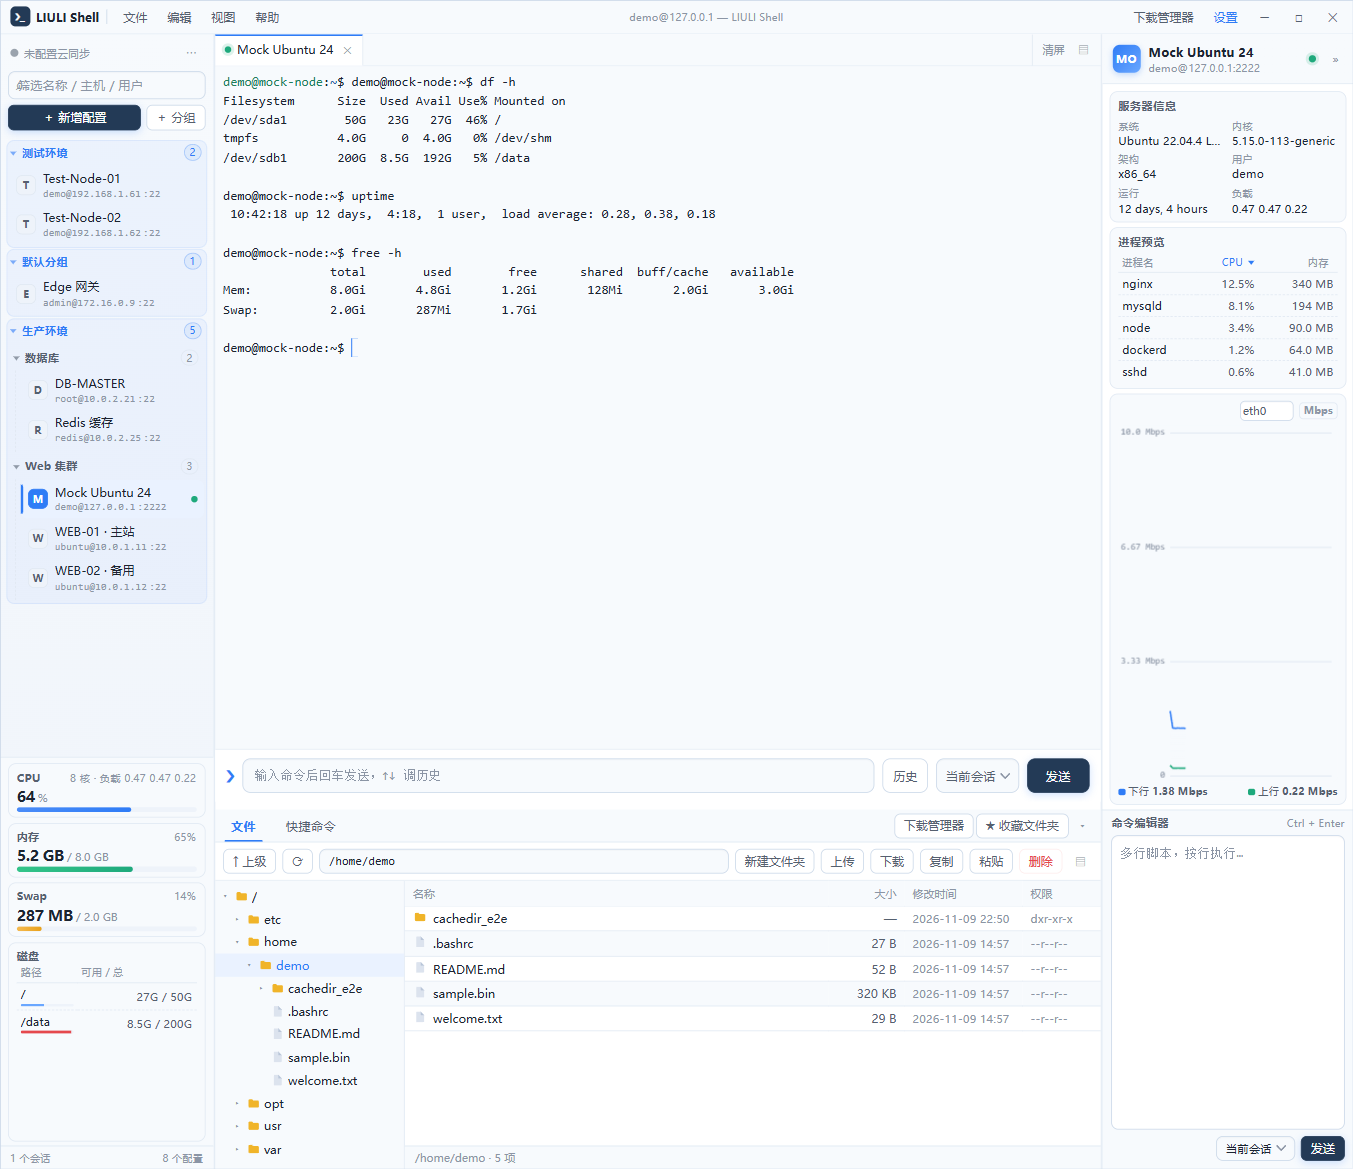
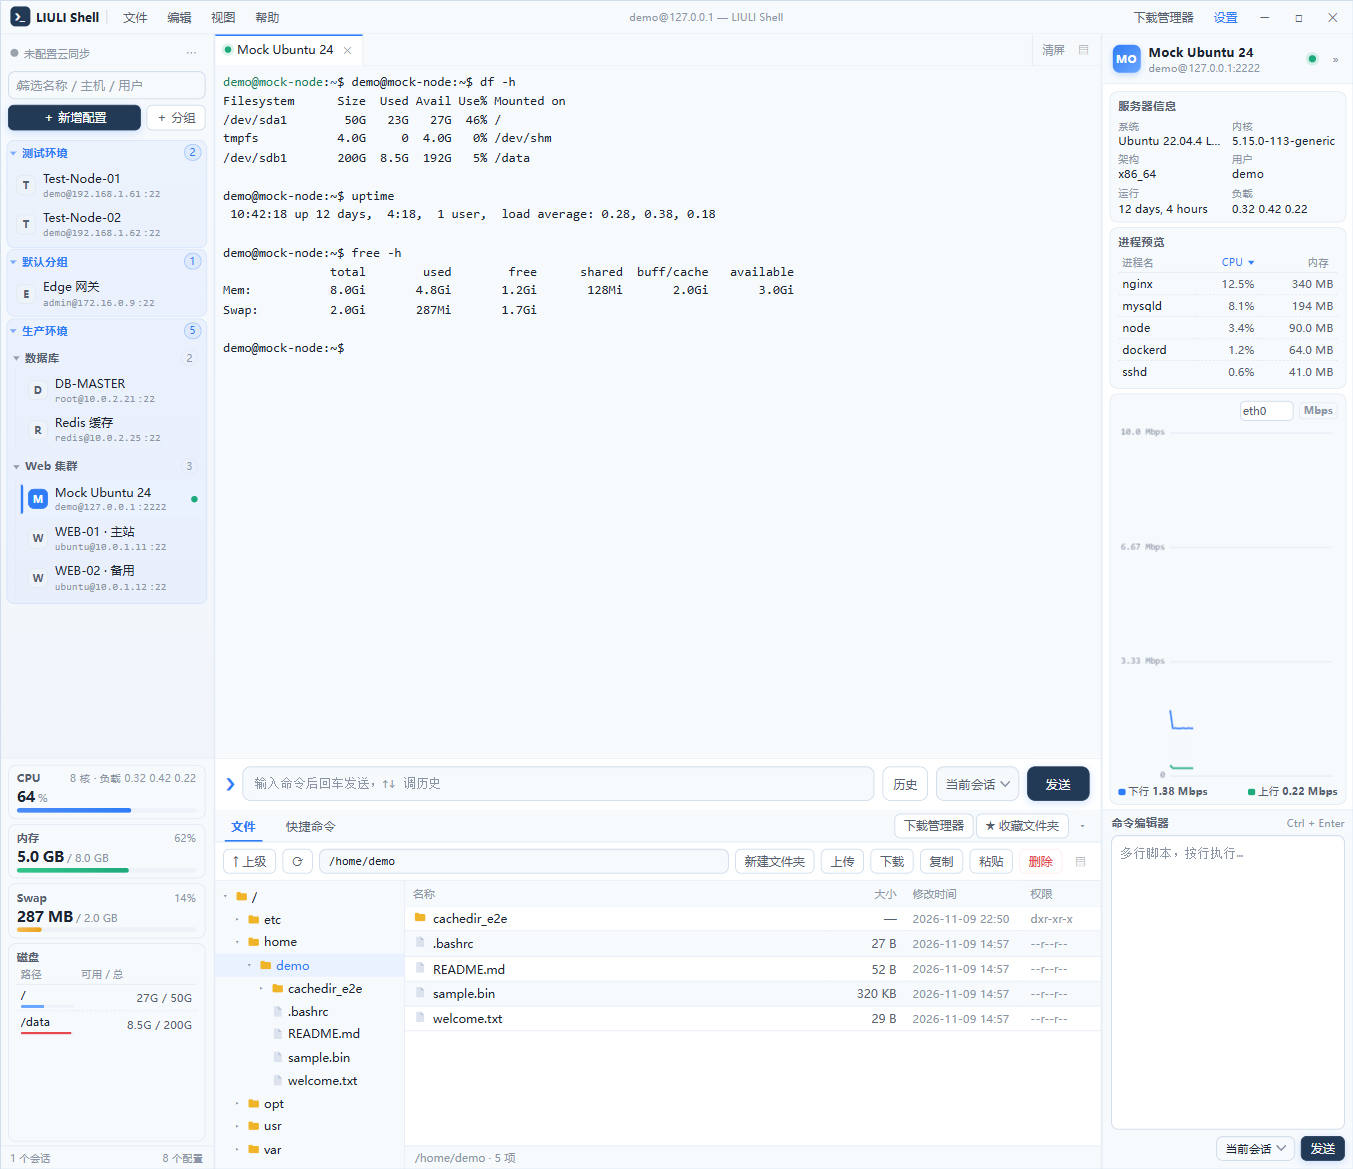
feat: 新增三套主题（藕粉·莓紫/青瓷·松绿/深海·靛蓝）；安装目录自动追加 LIULISHELL 子文件夹；左栏监控区与命令栏对齐、输入框上下边距一致；版本号升至 1.13.9；重截 8 套主题配图并同步官网/README/项目设计

diff --git a/src/renderer/css/style.css b/src/renderer/css/style.css
@@ -28,6 +28,8 @@
   --bottom-h: 360px;
   --radius: 8px;
   --left-foot-h: 24px;
+  /* 命令输入栏固定高度：左栏监控区用它算顶部对齐，输入框在其中垂直居中 */
+  --cmd-bar-h: 52px;
 }
 
 * { box-sizing: border-box; }
@@ -312,10 +314,12 @@ body.theme-dark .group.lv1.open > .group-head:hover { background: rgba(var(--acc
 .ci-state { width: 6px; height: 6px; border-radius: 50%; flex: 0 0 auto; background: transparent; }
 .conn-item.online .ci-state { background: var(--ok); box-shadow: 0 0 0 3px var(--accent-soft); }
 
-/* 左下监控区：顶部与命令输入栏顶部对齐；分区过多时用下拉框，不挤压服务器列表 */
+/* 左下监控区：顶边与命令输入栏顶边精确对齐。
+ * 两者都以视口底部为基准：监控区下方只有 left-foot，命令栏下方是 bottom-pane + 分隔条。
+ * 分隔条不占布局高度，所以监控区高度 = bottom-h + cmd-bar-h - left-foot-h。 */
 .left-monitors {
   flex: 0 0 auto;
-  height: calc(var(--bottom-h) + 53px - var(--left-foot-h));
+  height: calc(var(--bottom-h) + var(--cmd-bar-h) - var(--left-foot-h));
   min-height: 220px; max-height: none;
   overflow: hidden;
   padding: 6px 8px 4px; border-top: 1px solid var(--line);
@@ -348,8 +352,12 @@ body.theme-dark .group.lv1.open > .group-head:hover { background: rgba(var(--acc
 .splitter.v { width: 1px; cursor: col-resize; }
 .splitter.v::after { content: ""; position: absolute; top: 0; bottom: 0; left: -4px; right: -4px; }
 .splitter.v:hover, .splitter.v.dragging { background: var(--accent); }
-.splitter.h { height: 8px; cursor: row-resize; background: transparent; }
-.splitter.h::after { content: ""; position: absolute; left: 0; right: 0; top: -4px; bottom: -4px; }
+/* 水平分隔条：只保留透明拖拽热区，不占布局高度。
+ * 与命令编辑器把手（.ce-resize）一致：靠 ::after 向上下各扩 4px 保证命中面积，
+ * 若给它真实高度，会挤开下方命令栏 / 左侧监控区的水平对齐与上下边距。 */
+.splitter.h { height: 0; cursor: row-resize; background: transparent; z-index: 32; }
+/* 热区偏向上方：命令栏底部有 9px 空白，向下只探入标签栏 2px，避免挡住按钮 */
+.splitter.h::after { content: ""; position: absolute; left: 0; right: 0; top: -6px; bottom: -2px; }
 .splitter.h:hover, .splitter.h.dragging { background: transparent; }
 body.resizing { user-select: none; cursor: grabbing; }
 
@@ -418,7 +426,13 @@ body.resizing { user-select: none; cursor: grabbing; }
 .empty-title { font-size: 13px; color: var(--term-fg); }
 .empty-sub { font-size: 11.5px; color: var(--term-muted); }
 
-.cmd-bar { position: relative; z-index: 31; flex: 0 0 auto; display: flex; align-items: center; gap: 8px; padding: 9px 11px; background: var(--panel); border-top: 1px solid var(--line); }
+/* 命令输入栏：固定高度 + 垂直居中，输入框上下留白严格相等。
+ * 顶部分隔线用 inset 阴影绘制，不占布局高度，避免 border 让上下差 1px。 */
+.cmd-bar {
+  position: relative; z-index: 31; flex: 0 0 auto; height: var(--cmd-bar-h);
+  display: flex; align-items: center; gap: 8px; padding: 0 11px;
+  background: var(--panel); box-shadow: inset 0 1px 0 var(--line);
+}
 .cmd-caret { color: var(--accent); font-family: var(--font-mono); font-weight: 700; font-size: 16px; }
 .cmd-bar #cmd-input {
   flex: 1 1 auto; height: 34px; font-family: var(--font-mono);

diff --git a/src/renderer/js/settings.js b/src/renderer/js/settings.js
@@ -62,6 +62,39 @@ window.Settings = (function () {
         danger: '#f07171', 'danger-soft': '#3a2427', ok: '#4fc79d', warn: '#e3b45a', 'warn-soft': '#3a3020', 'term-bg': '#0d1116'
       },
       term: { bg: '#0d1116', fg: '#e2e8f0', cursor: '#5fc2b0', selection: '#2b3a3a', empty1: '#1d232b', muted: '#758394', accent: '#5fc2b0', dark: true }
+    },
+    {
+      id: 'rose', name: '藕粉 · 莓紫', note: '柔和暖紫',
+      vars: {
+        bg: '#fbf5f8', panel: '#ffffff', 'panel-2': '#fdf7fa', 'panel-3': '#f5eaf1',
+        line: '#eee0e9', 'line-strong': '#ddc6d6', text: '#2f2230', 'text-2': '#6d5b6c',
+        muted: '#9a8898', primary: '#4a2d47', 'primary-hover': '#2e182c',
+        accent: '#a04a86', 'accent-2': '#c477ad', 'accent-soft': '#f6e8f1', 'accent-rgb': '160, 74, 134',
+        danger: '#d9485f', 'danger-soft': '#fdeaee', ok: '#3b9a78', warn: '#d09023', 'warn-soft': '#fdf1da', 'term-bg': '#1d1420'
+      },
+      term: { bg: '#fdf7fa', fg: '#2f2230', cursor: '#a04a86', selection: '#f0dbe9', empty1: '#ffffff', muted: '#9a8898', accent: '#a04a86', dark: false }
+    },
+    {
+      id: 'celadon', name: '青瓷 · 松绿', note: '淡雅青绿',
+      vars: {
+        bg: '#f1f7f3', panel: '#ffffff', 'panel-2': '#f7fbf8', 'panel-3': '#e9f2ec',
+        line: '#dce9e0', 'line-strong': '#c4d8ca', text: '#1d2a23', 'text-2': '#52685b',
+        muted: '#879b8e', primary: '#22392e', 'primary-hover': '#11241a',
+        accent: '#3f7d5f', 'accent-2': '#6ba587', 'accent-soft': '#e5f2ea', 'accent-rgb': '63, 125, 95',
+        danger: '#d04a4a', 'danger-soft': '#fbeaea', ok: '#2f9a6b', warn: '#c18b1e', 'warn-soft': '#fbf1d8', 'term-bg': '#101d16'
+      },
+      term: { bg: '#f7fbf8', fg: '#1d2a23', cursor: '#3f7d5f', selection: '#d8ecdf', empty1: '#ffffff', muted: '#879b8e', accent: '#3f7d5f', dark: false }
+    },
+    {
+      id: 'ocean', name: '深海 · 靛蓝', note: '暗色蓝调', dark: true,
+      vars: {
+        bg: '#101820', panel: '#192430', 'panel-2': '#1e2b39', 'panel-3': '#15202b',
+        line: '#2a3a4a', 'line-strong': '#3a4d60', text: '#e0eaf4', 'text-2': '#a6b8ca',
+        muted: '#72889e', primary: '#3e5f82', 'primary-hover': '#52769c',
+        accent: '#5aa9e6', 'accent-2': '#8bc7f2', 'accent-soft': '#22394f', 'accent-rgb': '90, 169, 230',
+        danger: '#ef7277', 'danger-soft': '#3a2529', ok: '#4cc19b', warn: '#e0b454', 'warn-soft': '#39301f', 'term-bg': '#0b1219'
+      },
+      term: { bg: '#0b1219', fg: '#e0eaf4', cursor: '#5aa9e6', selection: '#26425c', empty1: '#192430', muted: '#72889e', accent: '#5aa9e6', dark: true }
     }
   ];
 

diff --git a/项目设计.md b/项目设计.md
@@ -13,7 +13,7 @@
 
 技术栈：Electron + xterm.js + ssh2（原生 SFTP 与 shell channel，无外部命令依赖）。
 
-当前版本 **v1.13.8** · Windows 提供现成安装包 · Linux / macOS 请按下方教程自行构建。
+当前版本 **v1.13.9** · Windows 提供现成安装包 · Linux / macOS 请按下方教程自行构建。
 
 ## 下载
 
@@ -29,7 +29,8 @@
 
 **安装与升级：**
 
-- 全新安装默认目录：有 D 盘时 `D:\LIULISHELL`，否则 `C:\Program Files\LIULI Shell`，向导中可自行修改。
+- 全新安装默认目录：有 D 盘时 `D:\LIULISHELL`，否则 `C:\Program Files\LIULISHELL`，向导中可自行修改。
+- **安装目录规范化**（`build/installer.nsh` 的 `normalizeInstallDir`，挂在 `MUI_PAGE_INSTFILES` 的 PRE 回调，此时 `$INSTDIR` 已是用户选择的最终值）：全新安装时若末段不是 `LIULISHELL`，自动追加一级；已是则不追加；升级 / 覆盖 / 降级沿用注册表 `InstallLocation`（`$prevDir`），完全不追加，避免装出第二份。用「取末尾 11 字符与 `\LIULISHELL` 比较」判断，大小写不敏感；不用 `StrContains`（路径中间包含该词会误判），也不用 `WordFind`（尾斜杠时行为不一致）。先去掉末尾多余反斜杠，盘符根 `D:\` 直接拼 `LIULISHELL` 避免双反斜杠。
 - 安装器会读取注册表卸载项的 `DisplayVersion`：检测到低版本 → 按钮变「升级」并沿用原安装目录（跳过目录选择页）；同版本询问是否覆盖；高版本询问是否降级；`/S` 静默安装不弹窗。
 - **升级 / 重装 / 卸载都不会删除数据**：配置在 `%APPDATA%\LIULI Shell`（`liulishell-data.json` + 加密凭据），安装器只清理安装目录 `$INSTDIR`。升级前请先退出正在运行的实例。
 - 便携版默认与安装版共用 `%APPDATA%\LIULI Shell`；若要完全随身携带，在便携版 exe 同级新建 `data` 文件夹即可。**便携版 exe 不要放进安装目录**（升级时安装目录会被整体替换）。
@@ -155,7 +156,7 @@ npx electron-builder --mac dmg zip --arm64    # 只打 Apple Silicon
 点顶栏「设置」或标签栏「设置」打开，修改后立即生效并自动保存。
 
 ### 外观与主题
-- **5 套主题预设**：暖白 · 墨绿（默认）、雾蓝 · 靛青、米杏 · 陶土、石墨 · 冷灰、夜间 · 深墨。默认主题严格采用：页面 `#f7f6f2`、卡片 `#fff`、浅底 `#fbfaf7`、边框 `#e7e5df`、主文字 `#15191d`、次要文字 `#5d666f`、极浅文字 `#8b939b`、主按钮/选中块 `#15191d`（hover `#000`）、链接/点缀 `#16665a`。
+- **8 套主题预设**：暖白 · 墨绿（默认）、雾蓝 · 靛青、米杏 · 陶土、石墨 · 冷灰、夜间 · 深墨（暗）、藕粉 · 莓紫、青瓷 · 松绿、深海 · 靛蓝（暗）。其中浅色 6 套、暗色 2 套，切换时终端背景与 ANSI 色板同步换色。默认主题严格采用：页面 `#f7f6f2`、卡片 `#fff`、浅底 `#fbfaf7`、边框 `#e7e5df`、主文字 `#15191d`、次要文字 `#5d666f`、极浅文字 `#8b939b`、主按钮/选中块 `#15191d`（hover `#000`）、链接/点缀 `#16665a`。
 - 主题同时驱动**终端背景与配套文字/ANSI 色板**（浅色主题为浅底深字，夜间主题为深底浅字）。
 - **背景图**：默认主题纯色；可选本机图片，图片会压缩（最长边 1600px、JPEG）后保存在本地配置中，面板自动半透明透出背景。
 - **界面缩放**：100%（默认）/ 125% / 150% / 200%。切换后立即预览并弹出确认窗，**3 秒倒计时结束后才能点击**，确认保存则写入、取消或关闭窗口则回退原比例。随时可按 **Ctrl + Shift + 0** 复位。该值单独存 `zoom.conf`（优先放在安装目录，其次用户数据目录），**不写入 `liulishell-data.json`、不参与云同步与导出**；卸载或重装软件后自动回到 100%，也可用 `--reset-zoom` 启动参数强制复位。
@@ -321,4 +322,4 @@ npm run dist:mac            # macOS：dmg + zip（x64 / arm64，需在 macOS 上
 - 独立编辑器仅支持 UTF-8 文本且小于 10MB；保存为直接覆写，不保留历史版本。
 - 网络「上传 / 下载」来自 `ss -i` 字节统计（需 root 才能看到进程归属）。
 - 目录树为懒加载，单层超过 350 项时折叠展示。
-- 版本 **v1.13.8**，作者 **LIULIWANJIA**。
+- 版本 **v1.13.9**，作者 **LIULIWANJIA**。
